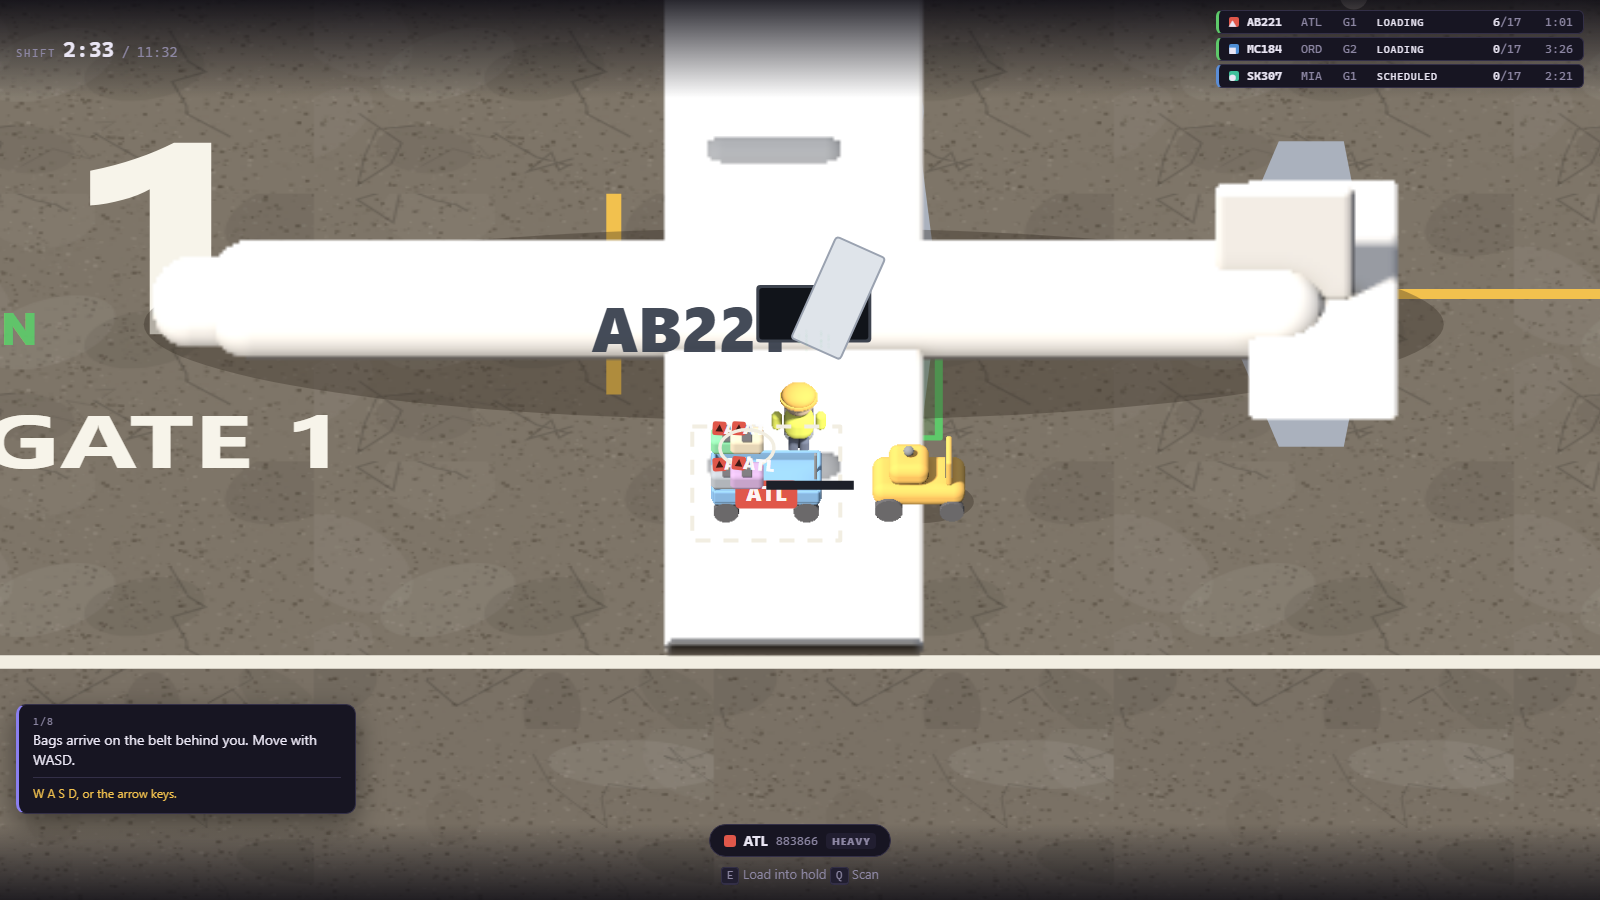
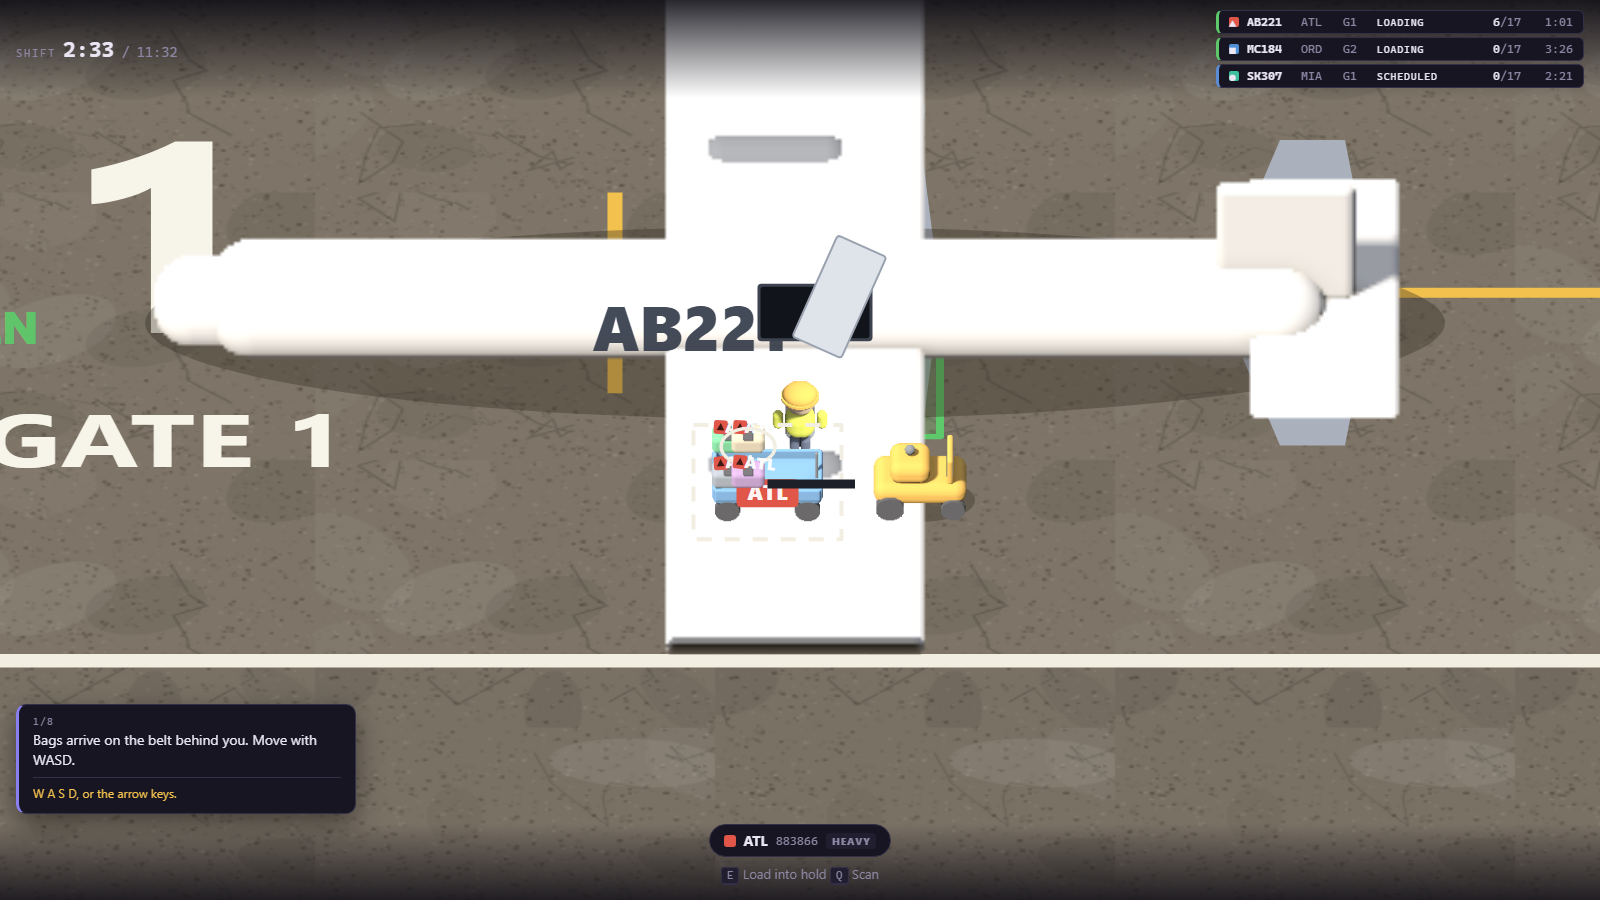
Finish the conveyor and walls, and remove the mouse aim lock
THE MOUSE LOCK. player.aimX/aimY followed the cursor whenever pointerWorld
was set — and main.js set that on the first mousemove and every frame after,
for ever. One accidental twitch locked the crew's facing to the cursor
permanently: walking north while staring south, hands reaching at whatever
the pointer was over, with no way back short of reloading. Facing now follows
movement and nothing else.

GDD 17.1 offers "mouse position or movement direction" and then says outright
to favour reliable movement over elaborate mouse aiming for a top-down
prototype, so this is the option the document already preferred. It also
promotes 16.6's keyboard-only requirement from a fallback to the only path,
which is the shape m7 section D has been asserting all along — that section
needed no changes.

Standing still HOLDS the last direction, deliberately: a throw is lined up by
facing it, and a crew that snapped back to a resting angle on stopping could
not be aimed at all.

The per-frame pointer->world projection and the mousemove listener are gone
rather than left maintained. A correct, fresh pointerWorld sitting unread is
a live wire — the next thing wanting "where is the mouse" would find it and
quietly reintroduce the lock. Input keeps the field so m7 D2 can go on
asserting nothing needs it.

THE CONVEYOR AND WALLS are finished, and deliberately NOT as sprites. WALLS
is data and its entries are whatever size the airport says; the belt is 21 m
[…]

diff --git a/src/render/renderer.js b/src/render/renderer.js
@@ -25,7 +25,7 @@ import { CONFIG } from '../config.js';
 import { texAsphalt, texIndoor, texRoad, pattern, tint } from './textures.js';
 import { FX } from './fx.js';
 import { atlas } from './atlas.js';
-import { BAG_CLAY } from './clay.js';
+import { BAG_CLAY, CLAY_MATERIALS, clayLit, N_TOP, N_FRONT } from './clay.js';
 import {
   drawPerson, drawBagTop, drawWheel, drawTractorBody, drawCartBody,
   drawAircraftGear, drawHoldDoor, rr as roundRect,
@@ -506,14 +506,44 @@ export class Renderer {
     }
   }
 
+  /*
+   * A wall, lit by the same lamp as everything in the atlas (GDD §38).
+   *
+   * NOT a sprite, and deliberately: `WALLS` is data and its entries are whatever length
+   * the airport says, so a tiled segment would seam and a stretched one would smear its
+   * rounded corners. `clayLit` runs the baker's own shading arithmetic for a flat surface
+   * instead, so the face and the lid are the same material under the same light as a cart
+   * flank — matched by construction rather than by eye.
+   *
+   * The extras are what a flat quad does not get for free from that: a soft AO gradient
+   * down the face where it meets the floor, and a bright lip along the top edge. Both are
+   * things the sprite baker computes per pixel; here they are approximated once, because
+   * a wall is a box and its occlusion is not interesting.
+   */
   _wall(w) {
     const { ctx, camera } = this;
     camera.beginUpright(ctx, w.x + w.w / 2, w.y + w.h);
     const sw = w.w, sd = w.h * camera.squash;
-    ctx.fillStyle = PALETTE.wall;
-    ctx.fillRect(-sw / 2, -H.wall, sw, H.wall + sd * 0.5);
-    ctx.fillStyle = PALETTE.wallTop;
+    const A = CLAY_MATERIALS.wall;
+    const faceH = H.wall + sd * 0.5;
+
+    ctx.fillStyle = clayLit(A, N_FRONT[0], N_FRONT[1], N_FRONT[2]);
+    ctx.fillRect(-sw / 2, -H.wall, sw, faceH);
+
+    /* contact occlusion: the floor darkens the bottom of the face */
+    const ao = ctx.createLinearGradient(0, -H.wall, 0, -H.wall + faceH);
+    ao.addColorStop(0, 'rgba(38,30,20,0)');
+    ao.addColorStop(1, 'rgba(38,30,20,0.34)');
+    ctx.fillStyle = ao;
+    ctx.fillRect(-sw / 2, -H.wall, sw, faceH);
+
+    ctx.fillStyle = clayLit(A, N_TOP[0], N_TOP[1], N_TOP[2]);
     ctx.fillRect(-sw / 2, -H.wall - sd, sw, sd);
+
+    /* the lit edge where lid meets face — a rounded solid has one, a pair of quads
+     * does not, and without it the wall reads as two flat bands */
+    ctx.fillStyle = clayLit(A, 0, 0.72, 0.69);
+    ctx.fillRect(-sw / 2, -H.wall - sd * 0.16, sw, sd * 0.16);
   }
 
   _belt(c, state) {
@@ -522,14 +552,40 @@ export class Renderer {
     camera.beginUpright(ctx, (c.x0 + c.x1) / 2, c.y0 + c.widthM / 2);
     const sd = c.widthM * camera.squash;
 
-    ctx.fillStyle = '#3b352c';   // warm machine grey, not the old near-black slab
-    ctx.fillRect(-len / 2, -H.belt, len, H.belt + sd * 0.4);
-    ctx.fillStyle = '#4e4740';
+    /*
+     * The conveyor, lit by the baker's own model (GDD §38) rather than by two hand-picked
+     * greys. Like the walls it stays DRAWN — the belt is 21 m of a length that lives in
+     * data, so a tiled sprite would seam — but `clayLit` puts its flank and its deck under
+     * the same lamp as the carts standing next to it.
+     *
+     * It also gains the things that were making it read as a hole in the floor rather than
+     * as machinery: legs it stands on, a raised side rail, a contact shadow under it, and
+     * a lit lip along the near edge of the deck.
+     */
+    const BODY = CLAY_MATERIALS.beltBody, DECK = CLAY_MATERIALS.beltDeck;
+    const faceH = H.belt + sd * 0.4;
+
+    /* legs, before the body so the body sits over them */
+    ctx.fillStyle = clayLit(CLAY_MATERIALS.metal, N_FRONT[0], N_FRONT[1], N_FRONT[2], 0.55);
+    for (let t = 0.9; t < len - 0.4; t += 3.2) {
+      ctx.fillRect(-len / 2 + t - 0.09, -H.belt * 0.62, 0.18, H.belt * 0.62 + sd * 0.30);
+    }
+
+    ctx.fillStyle = clayLit(BODY, N_FRONT[0], N_FRONT[1], N_FRONT[2]);
+    ctx.fillRect(-len / 2, -H.belt, len, faceH);
+
+    const ao = ctx.createLinearGradient(0, -H.belt, 0, -H.belt + faceH);
+    ao.addColorStop(0, 'rgba(30,24,16,0)');
+    ao.addColorStop(1, 'rgba(30,24,16,0.40)');
+    ctx.fillStyle = ao;
+    ctx.fillRect(-len / 2, -H.belt, len, faceH);
+
+    ctx.fillStyle = clayLit(DECK, N_TOP[0], N_TOP[1], N_TOP[2]);
     ctx.fillRect(-len / 2, -H.belt - sd, len, sd);
 
     // rollers, scrolling with SIMULATION time so a paused clock is a stopped belt
     const phase = ((state.simTimeMs / 1000) * c.speedMps) % 1.0;
-    ctx.strokeStyle = 'rgba(255,248,232,0.13)';
+    ctx.strokeStyle = 'rgba(22,18,12,0.30)';
     ctx.lineWidth = 0.1;
     ctx.beginPath();
     for (let t = -1 + phase; t < len; t += 1.0) {
@@ -539,8 +595,16 @@ export class Renderer {
     }
     ctx.stroke();
 
-    ctx.fillStyle = PALETTE.safety;
-    ctx.fillRect(len / 2 - 0.25, -H.belt - sd, 0.3, sd);
+    /* raised side rails, so bags read as being CONTAINED by the belt rather than
+     * balanced on a plank — the same silhouette fix the cart needed */
+    ctx.fillStyle = clayLit(BODY, 0, 0.72, 0.69);
+    ctx.fillRect(-len / 2, -H.belt - sd - 0.10, len, 0.10);
+    ctx.fillStyle = clayLit(BODY, N_FRONT[0], N_FRONT[1], N_FRONT[2], 0.75);
+    ctx.fillRect(-len / 2, -H.belt - 0.10, len, 0.10);
+
+    /* the discharge end, where bags fall off — the one part a player must locate fast */
+    ctx.fillStyle = clayLit(CLAY_MATERIALS.beltRail, N_TOP[0], N_TOP[1], N_TOP[2]);
+    ctx.fillRect(len / 2 - 0.25, -H.belt - sd - 0.10, 0.3, sd + 0.10);
   }
 
   /**

diff --git a/src/render/clay.js b/src/render/clay.js
@@ -79,7 +79,59 @@ export const CLAY_MATERIALS = Object.freeze({
   bagSlate:  [0.45, 0.50, 0.58],
   bagSand:   [0.80, 0.72, 0.56],
   bagTeal:   [0.24, 0.62, 0.66],
+  /* Surfaces that stay DRAWN rather than baked — walls and the conveyor. Albedos, not
+   * finished colours: `clayLit` turns each into a lit face or a lit lid, so they share a
+   * lamp with everything in the atlas instead of being matched by eye. */
+  /* Chosen against the FLOOR, not by eye. Concrete sits at luminance 118; the lighting
+   * model multiplies albedo by ~1.46 before gamma, so an albedo that looks dark on paper
+   * comes out lighter than the ground. These are the values that put the belt below the
+   * floor and the wall's lid above it. */
+  wall:      [0.30, 0.27, 0.23],
+  beltBody:  [0.055, 0.053, 0.050],
+  beltDeck:  [0.075, 0.072, 0.068],
+  beltRail:  [0.86, 0.68, 0.22],
 });
+
+/*
+ * ── LIGHTING A SURFACE THE BAKER IS NOT GOING TO BAKE ────────────────────────
+ *
+ * Some things cannot be sprites. Walls come in whatever sizes `WALLS` says, and the
+ * conveyor is 21 m of belt whose length is data — tiling a baked segment across either
+ * means seams, and stretching one means the rounded corners smear. They stay drawn.
+ *
+ * But "drawn" must not mean "lit differently", which is what a hand-picked pair of greys
+ * would be. `clayLit` runs the SAME arithmetic `tools\_bake.js` runs per pixel — same
+ * wrapped diffuse, same key, sky and bounce terms, same gamma — for one flat surface with
+ * one normal. So a wall face and a cart's flank are the same material under the same lamp
+ * by construction, and neither can drift from the other without this file changing.
+ *
+ * What it cannot do is shadows and ambient occlusion, which need geometry the sprite baker
+ * had and a flat quad does not. `shadow` and `occ` are therefore parameters: pass 1 for an
+ * unoccluded surface, or less to darken a face that sits in its own pocket.
+ */
+const _clamp = (v, a, b) => (v < a ? a : v > b ? b : v);
+
+export function clayLit(albedo, nx, ny, nz, shadow = 1, occ = 1) {
+  const ndl = nx * LIGHT_DIR[0] + ny * LIGHT_DIR[1] + nz * LIGHT_DIR[2];
+  const wrap = _clamp((ndl + WRAP) / (1 + WRAP), 0, 1);
+  const sky = _clamp(0.5 + 0.5 * ny, 0, 1);
+  const bnc = _clamp(0.5 - 0.5 * ny, 0, 1);
+  const out = [0, 0, 0];
+  for (let i = 0; i < 3; i++) {
+    const v = albedo[i] * (
+      KEY_COL[i] * wrap * (0.16 + (1 - 0.16) * shadow) * 1.48 +
+      SKY_COL[i] * sky * occ * 0.40 +
+      BOUNCE_COL[i] * bnc * occ * 0.26
+    );
+    out[i] = Math.round(_clamp(Math.pow(v, 0.4545), 0, 1) * 255);
+  }
+  return `rgb(${out[0]},${out[1]},${out[2]})`;
+}
+
+/** The surface normals a standing box shows this camera: its lid, and the flank that
+ *  faces the viewer. Named so call sites read as geometry rather than as three numbers. */
+export const N_TOP   = Object.freeze([0, 1, 0]);
+export const N_FRONT = Object.freeze([0, 0, 1]);
 
 /** The bag body colours, in the order the bag entity indexes them.
  *  ⚠ Deliberately NOT the flight — GDD §7.2, and m1 C6 asserts they are shared across

diff --git a/src/entities/player.js b/src/entities/player.js
@@ -89,15 +89,26 @@ export function stepPlayer(state, dtSec, input) {
 
   if (!moving) applyFriction(p, dtSec, P.friction);
 
-  // Aim: the mouse if the player is using it, otherwise the way they are walking.
-  // Keyboard-only play must work (GDD §16.6), so movement direction is a real fallback,
-  // not a degraded one.
-  const pw = input && input.pointerWorld;
-  if (pw) {
-    const dx = pw.x - p.x, dy = pw.y - p.y;
-    const d = Math.hypot(dx, dy);
-    if (d > 0.25) { p.aimX = dx / d; p.aimY = dy / d; }
-  } else if (moving) {
+  /*
+   * AIM FOLLOWS MOVEMENT, and nothing else.
+   *
+   * It used to prefer the mouse whenever `pointerWorld` was set — and `main.js` sets that
+   * on the first `mousemove` and every frame after, for ever. So one accidental twitch of
+   * the mouse locked the crew's facing to the cursor permanently: walking north while
+   * staring south, hands reaching at whatever the pointer happened to be over. There was
+   * no way back to walking-aim short of reloading, which is what made it read as a lock
+   * rather than as a control.
+   *
+   * GDD §17.1 offers "mouse position OR movement direction" and then says outright to
+   * favour reliable movement over elaborate mouse aiming for a top-down prototype. This
+   * is that. It also makes §16.6's keyboard-only requirement the DEFAULT path rather than
+   * a fallback, which is the shape m7 section D has been asserting all along.
+   *
+   * Standing still HOLDS the last direction, deliberately: you line a throw up by facing
+   * it, and a crew that snapped back to some resting angle the moment you stopped walking
+   * could not be aimed at all.
+   */
+  if (moving) {
     const d = Math.hypot(ax.x, ax.y);
     p.aimX = ax.x / d; p.aimY = ax.y / d;
   }

diff --git a/src/main.js b/src/main.js
@@ -72,15 +72,6 @@ const input = new Input(window).attach();
 const hud   = new Hud(uiRoot, game);
 const debug = new DebugOverlay(uiRoot, game, renderer);
 
-/* Mouse aim. The screen position is stored on move; the WORLD position is recomputed
-   every frame, because the camera moves under a stationary cursor and the hands must
-   keep pointing at the same place on the ramp, not the same place on the glass. */
-window.addEventListener('mousemove', (e) => {
-  input.pointer.x = e.clientX;
-  input.pointer.y = e.clientY;
-  input.pointer.seen = true;
-});
-
 /* Focus loss auto-pauses — GDD §24.3. Alt-tabbing out of a live airport and returning to
    three departed flights is a bug report, not a difficulty setting. */
 input.onBlur = () => game.pauseForBlur();
@@ -132,9 +123,11 @@ function frame(now) {
 
   camera.resize(canvas);
 
-  if (input.pointer.seen) {
-    input.pointerWorld = camera.screenToWorld(input.pointer.x, input.pointer.y);
-  }
+  /* The per-frame pointer→world projection is GONE along with mouse aim (see
+   * entities/player.js). Nothing reads `pointerWorld` now, and leaving it maintained
+   * would be a live wire: the next thing to reach for "where is the mouse" would find a
+   * fresh, correct value sitting there and quietly reintroduce the lock. `Input` keeps
+   * the field so m7 D2 can go on asserting nothing needs it. */
 
   game.frame(dt, input);
 

diff --git a/GDD.md b/GDD.md
@@ -2008,14 +2008,54 @@ wheels, a hard hat, a strap across a bag lid — and at 46 m none of that detail
 screen. ~50 px/m at 1600 px: a bag is 36 px and a person 86 px. Readability only improves,
 so `m1 I5c` and the `MIN_PX_PER_M` floor are unaffected.
 
-### 38.8 Still on the old treatment
+### 38.8 The two things that stay DRAWN, and why
 
-Honest list, because a half-converted renderer is easy to mistake for a finished one:
+The conveyor and the walls are **not** sprites, and that is a decision rather than a gap.
+`WALLS` is data and its entries are whatever size the airport says; the belt is 21 m of a
+length that also lives in data. A tiled baked segment would seam and a stretched one would
+smear its rounded corners.
 
-- **The conveyor** is still vector-drawn. Recoloured warm so it no longer reads as a hole
-  in the floor, but it has no form and it is the weakest thing on screen.
-- **Walls** are still flat extruded quads.
+So they are drawn — but lit by `clayLit`, which runs **the baker's own shading arithmetic**
+for a flat surface: same wrapped diffuse, same key, sky and bounce terms, same gamma. A
+wall face and a cart's flank are therefore the same material under the same lamp *by
+construction*, and neither can drift without `src/render/clay.js` changing. What a flat
+quad cannot get from that is shadow and occlusion, so those are parameters, and the two
+surfaces add the rest by hand: a contact-AO gradient at the floor, a lit lip where lid
+meets face, legs under the belt, and raised side rails so bags read as contained rather
+than balanced on a plank.
+
+⚠ **The albedos were computed against the floor, not chosen by eye.** The lighting model
+multiplies albedo by ~1.46 before gamma, so a value that reads dark on paper comes out
+*lighter* than the concrete: the first attempt put the belt deck at 0.21 and it vanished
+into the ground. Concrete sits at luminance 118; the shipped belt deck is 92 and its face
+65, which is what makes it read as machinery.
+
+### 38.9 Still on the old treatment
+
 - **The aircraft is baked but under-modelled** — the wing is a slab rather than a tapered
   planform, and the fuselage albedo blows out against the concrete. It has form now, which
   is a large improvement on the flat slab, and it is not finished.
 - **`docs/m0`–`m6` screenshots** are still pre-clay; only the two hero images were retaken.
+
+### 38.10 Mouse aim removed
+
+`player.aimX/aimY` followed the cursor whenever `input.pointerWorld` was set — and `main.js`
+set that on the first `mousemove` and every frame after, for ever. One accidental twitch of
+the mouse locked the crew's facing to the cursor permanently: walking north while staring
+south, hands reaching at whatever the pointer happened to be over, with no way back short
+of reloading. That is what made it read as a lock rather than as a control.
+
+Facing now follows **movement, and nothing else**. GDD §17.1 offers "mouse position or
+movement direction" and then says outright to favour reliable movement over elaborate mouse
+aiming for a top-down prototype, so this is the option the document already preferred. It
+also promotes §16.6's keyboard-only requirement from a fallback to the only path — which is
+the shape `m7` section D has been asserting all along, and why that section needed no
+changes.
+
+Standing still HOLDS the last direction, deliberately: a throw is lined up by facing it,
+and a crew that snapped back to some resting angle on stopping could not be aimed at all.
+
+The per-frame pointer→world projection and the `mousemove` listener are both gone rather
+than left maintained. A correct, fresh `pointerWorld` sitting unread is a live wire: the
+next thing to want "where is the mouse" would find it and quietly reintroduce the lock.
+`Input` keeps the field so `m7 D2` can go on asserting that nothing needs it.

diff --git a/README.md b/README.md
@@ -13,9 +13,9 @@ The live build is GitHub Pages serving `main` at root, so **every push republish
 There is no build step: the game is plain ES modules and static files, and Pages already
 serves them over http, which is the one thing the game needs (see below).
 
-**Current state: Phase 1 feature-complete, and mid-way through a complete visual
-overhaul — the world is now a soft clay diorama rendered from a pre-baked sprite atlas.
-1388 assertions green across ten suites, and 16 of 16 deliberate bugs get caught.**
+**Current state: Phase 1 feature-complete, with the world rebuilt as a soft clay diorama
+rendered from a pre-baked sprite atlas. 1388 assertions green across ten suites, and 16 of
+16 deliberate bugs get caught.**
 Three flights, fifty-one bags, eleven and a half minutes. Bags arrive on a conveyor, get
 sorted into marked carts, hauled to a gate behind a tractor, and loaded into an aircraft
 hold — and the aircraft leave on the clock whether you are ready or not. The shift ends
